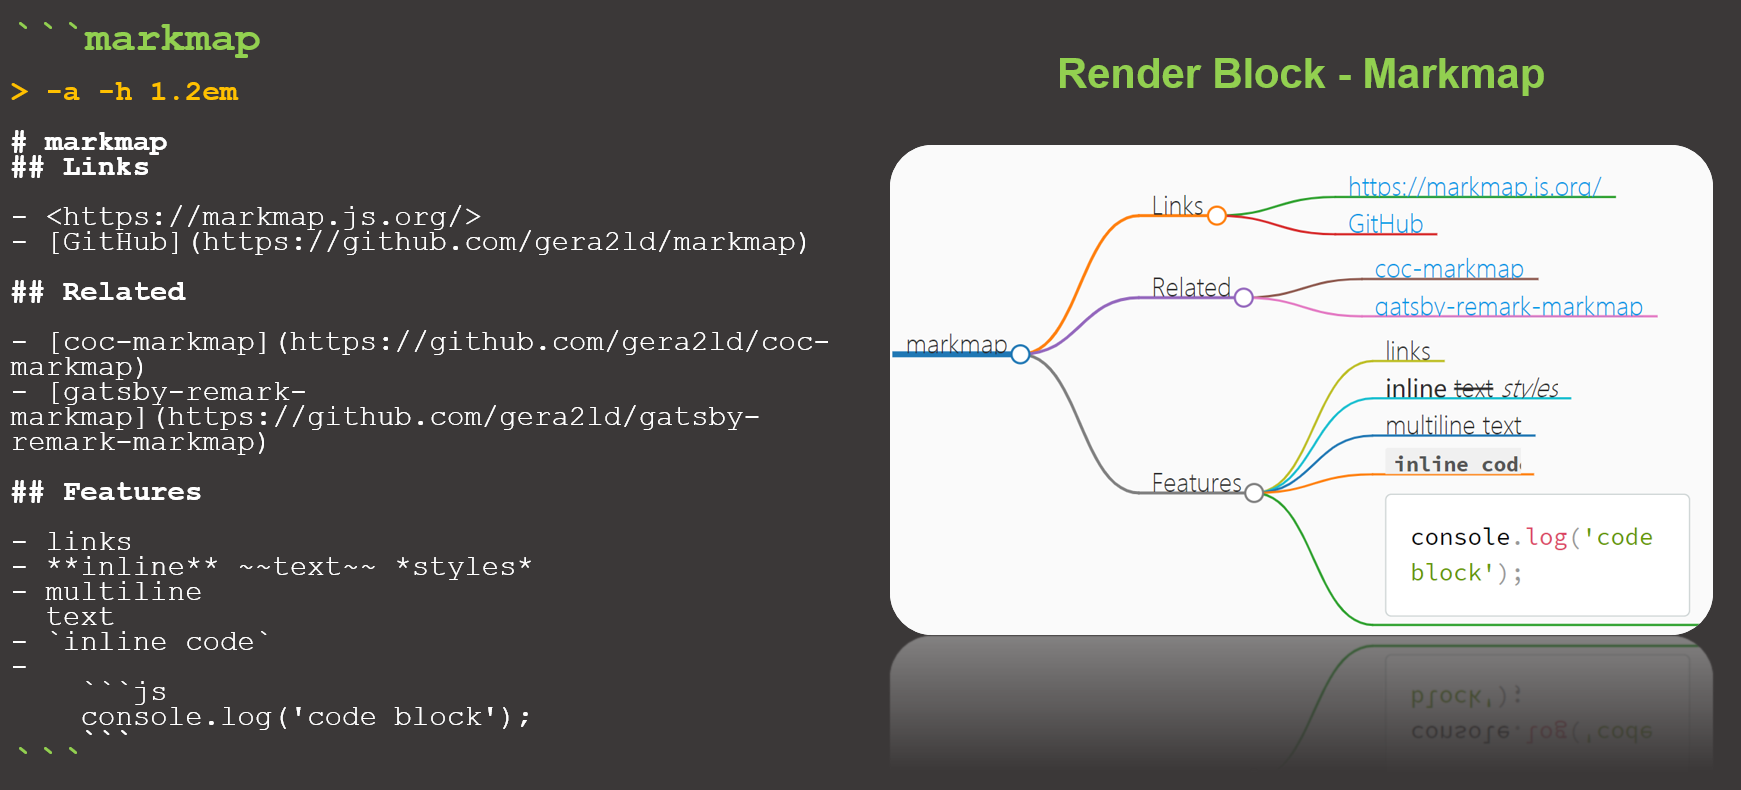
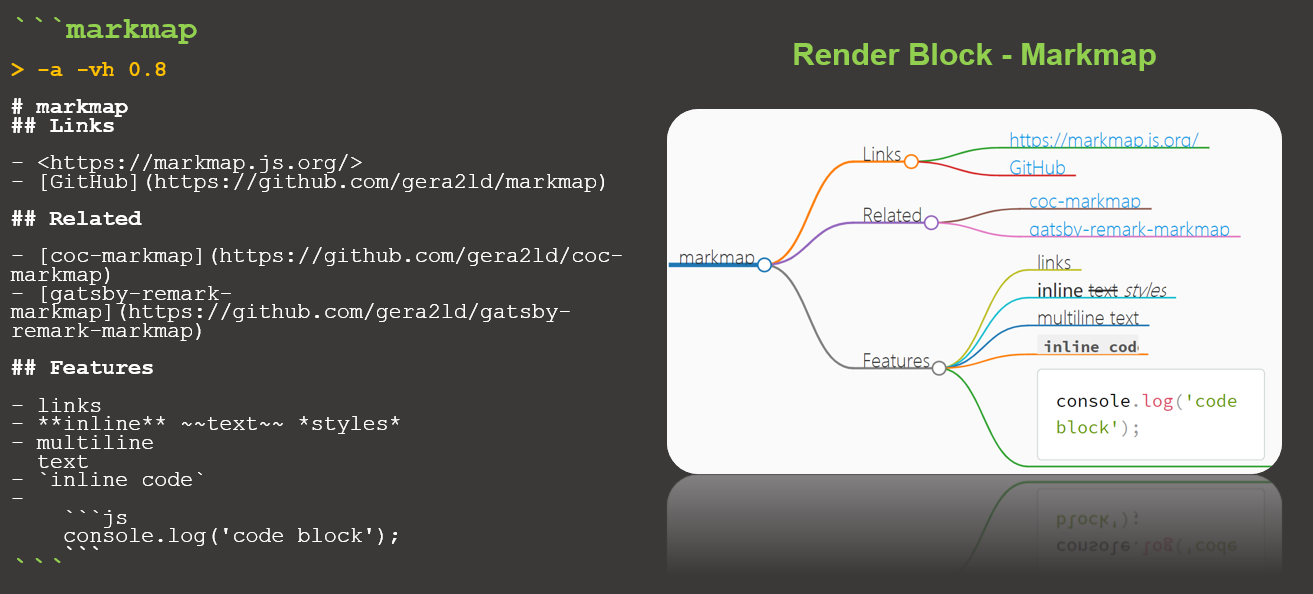
add vh option

diff --git a/src/block-markmap.ts b/src/block-markmap.ts
@@ -9,13 +9,18 @@ import { IMarkmapOptions } from 'markmap-view/types/types';
 // ------------------------------------------------------------
 
 export class MarkmapProcessor {
+	viewHeight: number;
+
+	constructor() {
+        this.viewHeight = 1.0;
+	}
 
     async run(source: string, el: HTMLElement) {
         // parser options
-        var optStr = '';
+        let optStr = '';
         if (source.startsWith('> ')) {
             const linePos = source.indexOf('\n');
-            var optStr = source.substring(2, linePos);
+            optStr = source.substring(2, linePos);
             source = source.substring(linePos + 1);
         }
         const options = this.parseOptions(optStr);
@@ -27,11 +32,11 @@ export class MarkmapProcessor {
         const { root, features } = transform(source);
 
         // create svg
-        var svg = this.createSVG(divEl);
+        let svg = this.createSVG(divEl);
         const markmapSVG = Markmap.create(svg, options, root);
 
         // resize containing div to contain the diagram's natural height
-        const height = markmapSVG.state.maxY - markmapSVG.state.minY;
+        const height = this.viewHeight * (markmapSVG.state.maxY - markmapSVG.state.minY);
         svg.style.height = `${height}px`;
 
         // zoom to fit (which should do nothing here?)
@@ -49,13 +54,22 @@ export class MarkmapProcessor {
         };
 
         // parser
-        var lineOpt = optStr.split(' ');
+        let lineOpt = optStr.split(' ');
 
         // autoFit?
         const nOpt = lineOpt.length;
-        var iOpt = lineOpt.indexOf('-a');
+        let iOpt = lineOpt.indexOf('-a');
         if (iOpt >= 0) {
             options.autoFit = true;
+        }
+
+        // view height
+        iOpt = lineOpt.indexOf('-vh');
+        if (iOpt >= 0 && (iOpt+1 < nOpt)) {
+            this.viewHeight = +(lineOpt[iOpt+1]);
+            if (this.viewHeight <= 0.0) {
+                this.viewHeight = 0.1;
+            }
         }
 
         // return

diff --git a/src/main.ts b/src/main.ts
@@ -2,12 +2,6 @@ import {
     Plugin,
 } from 'obsidian';
 
-import {
-    DEFAULT_SETTINGS,
-    RenderBlockMarkmapSettingTab,
-    RenderBlockMarkmapPluginSettings
-} from './settings';
-
 import { MarkmapProcessor } from './block-markmap'
 
 // ------------------------------------------------------------
@@ -15,37 +9,20 @@ import { MarkmapProcessor } from './block-markmap'
 // ------------------------------------------------------------
 
 export default class RenderBlockMarkmapPlugin extends Plugin {
-    settings: RenderBlockMarkmapPluginSettings;
 
     async onload() {
         console.log('Loading Render Block Markmap plugin');
 
-        // load settings
-        await this.loadSettings();
-
         // for cards rendering
         this.registerMarkdownCodeBlockProcessor('markmap', async (source, el, ctx) => {
-            if (this.settings.markmapSupport) {
-                await this.refreshEl(el);
-                const proc = new MarkmapProcessor();
-                await proc.run(source, el);
-            }
+            await this.refreshEl(el);
+            const proc = new MarkmapProcessor();
+            await proc.run(source, el);
         });
-
-        // for settings
-        this.addSettingTab(new RenderBlockMarkmapSettingTab(this.app, this));
     }
 
     onunload() {
         console.log('Unloading Render Block Markmap plugin');
-    }
-
-    async loadSettings() {
-        this.settings = Object.assign(DEFAULT_SETTINGS, await this.loadData());
-    }
-
-    async saveSettings() {
-        await this.saveData(this.settings);
     }
 
     async refreshEl(el: HTMLElement) {

diff --git a/README.md b/README.md
@@ -1,28 +1,34 @@
 # Render Block Markmap Plugin for Obsidian
 
-Obsidian Plugin: Render code block of markmap to embedded mindmap in preview mode.
+Obsidian Plugin: Render code block of markmap to embedded mind map in preview mode.
 
 ![](https://raw.githubusercontent.com/xpgo/obsidian-render-block-markmap/master/image/render-block-markmap1.png)
 
 ## Features
 
-- preview the code block of [markmap](https://markmap.js.org/) as mindmap
-- embeded mindmap in current note
+- preview the code block of [markmap](https://markmap.js.org/) as mind map
+- embedded mind map in current note
 - inline options for autofit
 
 **NOTICE**
 
-The plugin is different from the similar plugin [Obsidian Mind Map](https://github.com/lynchjames/obsidian-mind-map) which shows the entile note as mindmap in a seperated view and has more features. This plugin uses code block of markmap and embeds the mindmap in the note file preview. Personally, I like the embeded mode, so I released the plugin for whom also prefers the mode too.
+The plugin is different from the similar plugin [Obsidian Mind Map](https://github.com/lynchjames/obsidian-mind-map) which shows the entire note as mind map in a separated view and has more features. This plugin uses code block of markmap and embeds the mind map in the note file preview. Personally, I like the embedded mode, so I released the plugin for whom also prefers the mode too.
 
 ## Inline options
 
-- If the first line starts with `> `, the first line will be used for mind map options, for example: `> -a ` means autofit the mind map. In the future there will be more options.
+If the first line in the code block starts with `> `, the first line will be used for mind map options. Currently, it supports the following options:
+
+- `-a`: use this option to autofit the mind map when any node changes.
+- `-vh 0.8`: adjust the view height of mind map in preview mode. The default is 1.0.
+
+In the future there will be more options.
 
 ## Change log
 
-### 0.1.0
+### 0.1.x
 
-- Initial release
+- add option `-vh` (0.1.3)
+- Initial release (0.1.0)
 
 ## Plans for future
 
